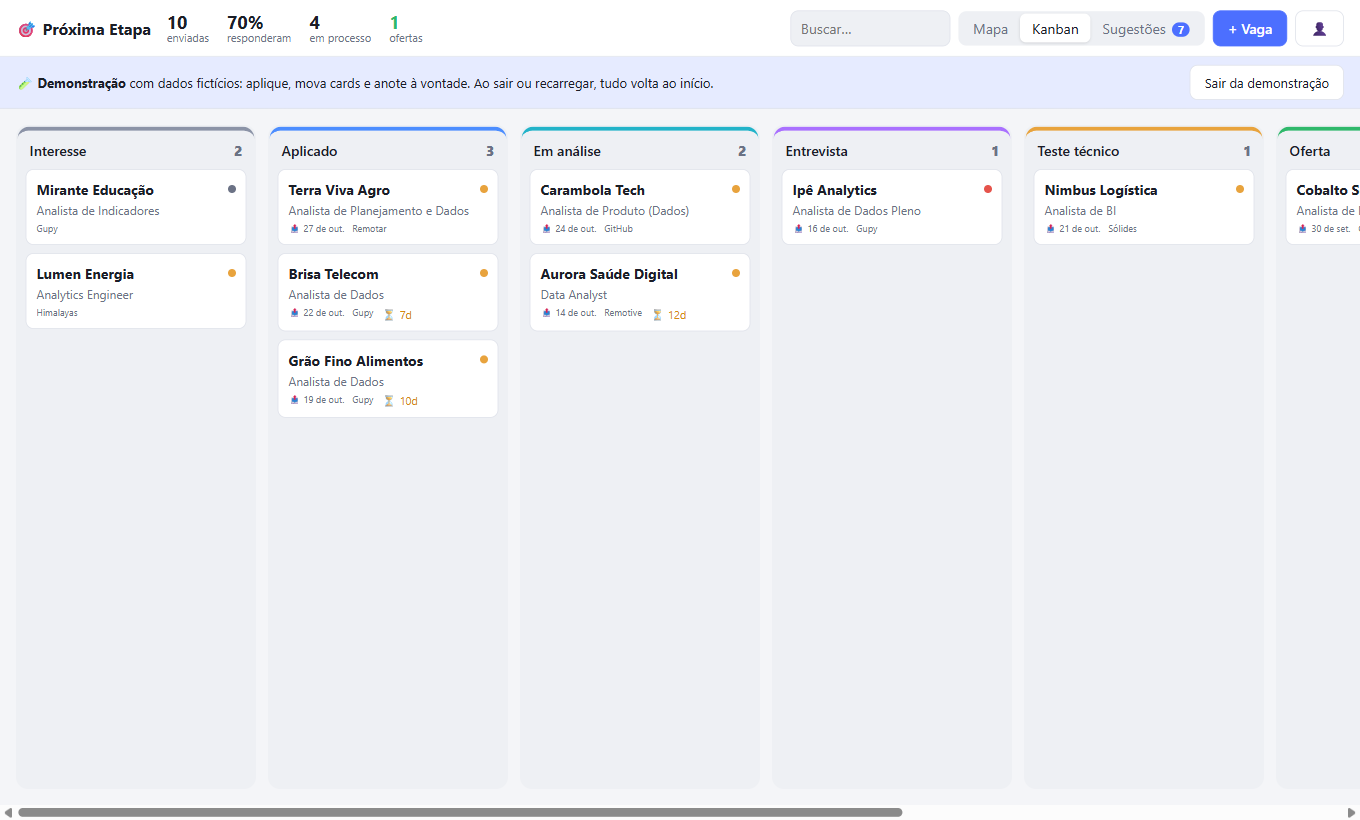
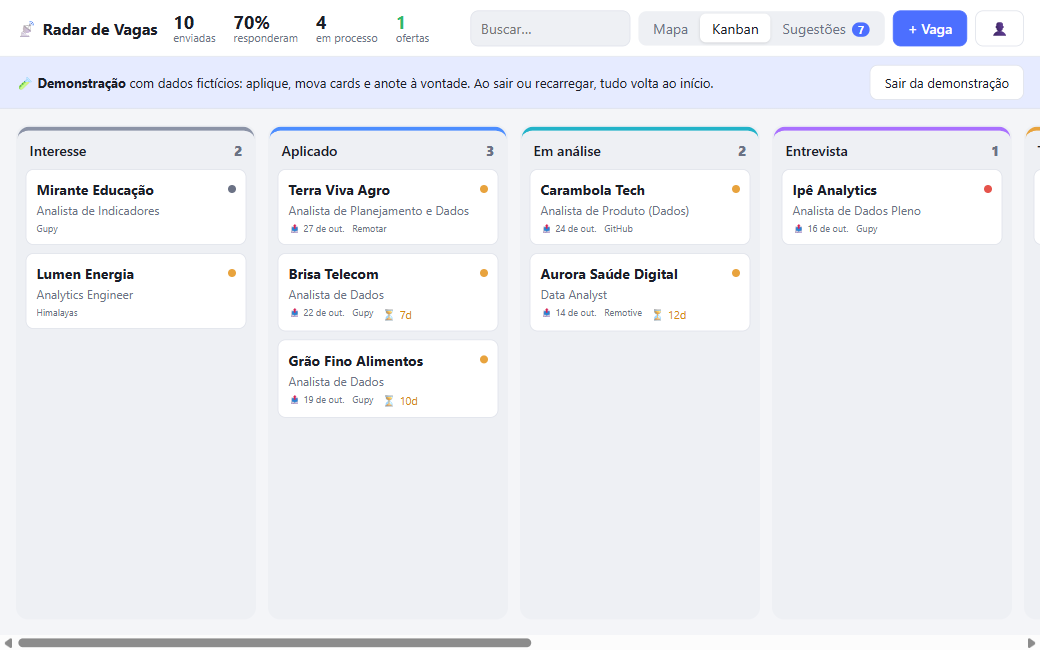
Nome do app: Radar de Vagas
Volta o nome escolhido em todo o projeto. O site fica em radardevagas.vercel.app,
porque radar-de-vagas.vercel.app já pertence a outro app; o endereço antigo continua funcionando.

diff --git a/supabase/functions/buscar-vagas/index.ts b/supabase/functions/buscar-vagas/index.ts
@@ -74,7 +74,7 @@ function faixa(min: unknown, max: unknown, moeda?: string | null, periodo?: stri
 // Algumas empresas da Gupy colocam a remuneração no texto da vaga
 async function salarioGupy(url: string): Promise<string | null> {
   try {
-    const r = await fetch(url, { headers: { 'User-Agent': 'Mozilla/5.0 (proxima-etapa)' }, signal: AbortSignal.timeout(15_000) })
+    const r = await fetch(url, { headers: { 'User-Agent': 'Mozilla/5.0 (radar-de-vagas)' }, signal: AbortSignal.timeout(15_000) })
     if (!r.ok) return null
     const html = await r.text()
     const dados = html.match(/<script id="__NEXT_DATA__"[^>]*>([\s\S]*?)<\/script>/)?.[1]
@@ -91,7 +91,7 @@ async function salarioGupy(url: string): Promise<string | null> {
 
 async function getJson(url: string): Promise<any> {
   try {
-    const r = await fetch(url, { headers: { 'User-Agent': 'Mozilla/5.0 (proxima-etapa)' }, signal: AbortSignal.timeout(20_000) })
+    const r = await fetch(url, { headers: { 'User-Agent': 'Mozilla/5.0 (radar-de-vagas)' }, signal: AbortSignal.timeout(20_000) })
     return r.ok ? await r.json() : null
   } catch {
     return null
@@ -181,7 +181,7 @@ function github(): Promise<Vaga[]> {
   const vagas = Promise.all(REPOS_GITHUB.map(async repo => {
     try {
       const r = await fetch(`https://api.github.com/repos/${repo}/issues?state=open&per_page=100`, {
-        headers: { Accept: 'application/vnd.github+json', 'User-Agent': 'proxima-etapa', ...(token ? { Authorization: `Bearer ${token}` } : {}) },
+        headers: { Accept: 'application/vnd.github+json', 'User-Agent': 'radar-de-vagas', ...(token ? { Authorization: `Bearer ${token}` } : {}) },
         signal: AbortSignal.timeout(20_000),
       })
       if (!r.ok) return []

diff --git a/src/Login.tsx b/src/Login.tsx
@@ -25,9 +25,9 @@ export default function Login() {
   return (
     <div className="login">
       <form onSubmit={enviar} className="login-card">
-        <div className="logo">🎯</div>
-        <h1>Próxima Etapa</h1>
-        <p className="muted">Sua busca de emprego, etapa por etapa</p>
+        <div className="logo">📡</div>
+        <h1>Radar de Vagas</h1>
+        <p className="muted">As vagas certas para o seu currículo</p>
         <input type="email" placeholder="E-mail" value={email} onChange={e => setEmail(e.target.value)} required autoComplete="email" />
         <input type="password" placeholder="Senha" value={senha} onChange={e => setSenha(e.target.value)} required minLength={8}
           autoComplete={criando ? 'new-password' : 'current-password'} />

diff --git a/src/App.tsx b/src/App.tsx
@@ -164,7 +164,7 @@ export default function App() {
   return (
     <div className="app">
       <header className="topo">
-        <div className="marca">🎯 <span>Próxima Etapa</span></div>
+        <div className="marca">📡 <span>Radar de Vagas</span></div>
         <div className="stats">
           <div><b>{enviadas}</b><small>enviadas</small></div>
           <div><b>{enviadas ? Math.round((comResposta / enviadas) * 100) : 0}%</b><small>responderam</small></div>

diff --git a/index.html b/index.html
@@ -7,7 +7,7 @@
     <meta name="viewport" content="width=device-width, initial-scale=1.0" />
     <meta name="theme-color" content="#4c6fff" />
     <meta name="robots" content="noindex" />
-    <title>Próxima Etapa</title>
+    <title>Radar de Vagas</title>
   </head>
   <body>
     <div id="root"></div>

diff --git a/README.md b/README.md
@@ -1,4 +1,4 @@
-# 🎯 Próxima Etapa
+# 📡 Radar de Vagas
 
 **Organizador de busca de emprego.** Reúne vagas de vários portais, dá uma nota para cada uma de acordo com o seu currículo,
 acompanha cada candidatura num mapa e num kanban, e lê os e-mails dos processos seletivos para mover as vagas de etapa sozinho.
@@ -6,7 +6,7 @@ acompanha cada candidatura num mapa e num kanban, e lê os e-mails dos processos
 Nasceu para resolver um problema meu: acompanhar dezenas de candidaturas em portais diferentes, cada uma numa etapa.
 Hoje funciona para qualquer área (TI, saúde, comercial, indústria, administrativo…) e outras pessoas usam por convite.
 
-**[▶ Ver a demonstração](https://proxima-etapa.vercel.app/?demo)**: sem login, com dados fictícios. Dá para aplicar em vagas, mover cards
+**[▶ Ver a demonstração](https://radardevagas.vercel.app/?demo)**: sem login, com dados fictícios. Dá para aplicar em vagas, mover cards
 e anotar à vontade; ao sair ou recarregar a página, tudo volta ao início.
 
 ![Mapa de candidaturas](docs/mapa.png)
@@ -34,7 +34,7 @@ e anotar à vontade; ao sair ou recarregar a página, tudo volta ao início.
 |---|---|
 | 📄 **Perfil a partir do currículo** | Você envia o PDF ou Word e o app identifica cargos, competências, nível, cidade e inglês. Tudo é lido no navegador, por regras, sem IA, e o arquivo não sai do seu computador. |
 | 🔎 **Busca automática de vagas** | Duas vezes por dia, consulta Gupy, Sólides, Remotar, repositórios de vagas do GitHub e, se você tem inglês, Remotive, Himalayas, Jobicy e RemoteOK. |
-| 📊 **Nota de 0 a 100** | Cada vaga recebe uma nota de compatibilidade com o motivo à vista ("cargo: analista de dados", "sql, python"). Vagas repetidas entre portais aparecem uma vez só. |
+| 🎯 **Nota de 0 a 100** | Cada vaga recebe uma nota de compatibilidade com o motivo à vista ("cargo: analista de dados", "sql, python"). Vagas repetidas entre portais aparecem uma vez só. |
 | 🗺 **Mapa e kanban** | As candidaturas aparecem em volta de você, agrupadas por etapa, ou num quadro em que dá para arrastar os cards. Vagas sem resposta há 7 dias ou mais ganham o aviso ⏳. |
 | 📝 **Kit de candidatura** | Textos "sobre mim" por tipo de vaga, com `%empresa%` e `%cargo%` preenchidos sozinhos, e as habilidades que o formulário pede, prontas para copiar. |
 | 📬 **Leitura dos e-mails** | Conectando o Outlook, o app lê os e-mails da Gupy de hora em hora, reconhece entrevista, teste, proposta e recusa, e move a vaga de etapa. |
@@ -80,8 +80,8 @@ flowchart LR
 Precisa do [Node.js](https://nodejs.org) 20 ou mais novo.
 
 ```bash
-git clone https://github.com/eduardoalthaus/proxima-etapa.git
-cd proxima-etapa
+git clone https://github.com/eduardoalthaus/radar-de-vagas.git
+cd radar-de-vagas
 npm install
 npm run dev
 ```

diff --git a/CLAUDE.md b/CLAUDE.md
@@ -1,16 +1,16 @@
-# Próxima Etapa
+# Radar de Vagas
 
 Tracker de candidaturas a vagas de emprego (qualquer área e modalidade), em português. Começou como app pessoal do Eduardo e hoje aceita outras pessoas **por convite**.
-Chamava-se "Vagas Remotas"; o nome mudou porque o app busca vagas de todo tipo ("Radar de Vagas" foi descartado: já existe outro app com esse nome).
-Site: https://proxima-etapa.vercel.app (o antigo vagas-remotas.vercel.app continua apontando para o mesmo projeto) ·
-Repo: github.com/eduardoalthaus/proxima-etapa (público, licença MIT).
+Chamava-se "Vagas Remotas"; o nome mudou porque o app busca vagas de todo tipo. O nome é escolha do Eduardo: **Radar de Vagas**, em todo lugar.
+Site: https://radardevagas.vercel.app (radar-de-vagas.vercel.app pertence a outro app; vagas-remotas.vercel.app continua apontando para este projeto) ·
+Repo: github.com/eduardoalthaus/radar-de-vagas (público, licença MIT). Projeto no Supabase também se chama `radar-de-vagas`.
 
 ## Arquitetura
 
 - **Frontend**: Vite + React + TypeScript (`src/`), sem roteador nem lib de estado. Mapa mental com `@xyflow/react`.
   Telas: Mapa, Kanban e Sugestões (alternadas em `App.tsx`), painéis laterais para vaga, perfil, modelos e conta.
 - **Supabase** (id `uplzlegibigvnaftrcfr`, região sa-east-1, plano gratuito): Postgres + Auth + Edge Functions + pg_cron/pg_net.
-- **Vercel** (projeto `proxima-etapa`, time `eduardo-althaus-projects`, plano Hobby) hospeda o build estático. O deploy automático pelo GitHub **não** está ligado.
+- **Vercel** (projeto `radar-de-vagas`, time `eduardo-althaus-projects`, plano Hobby) hospeda o build estático. O deploy automático pelo GitHub **não** está ligado.
 
 ## Tabelas (todas com RLS por `user_id = auth.uid()`)
 
